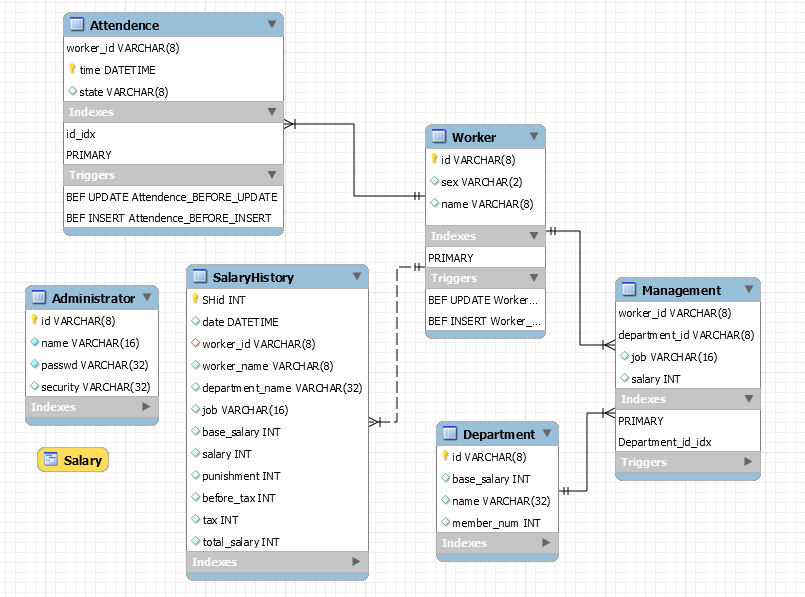
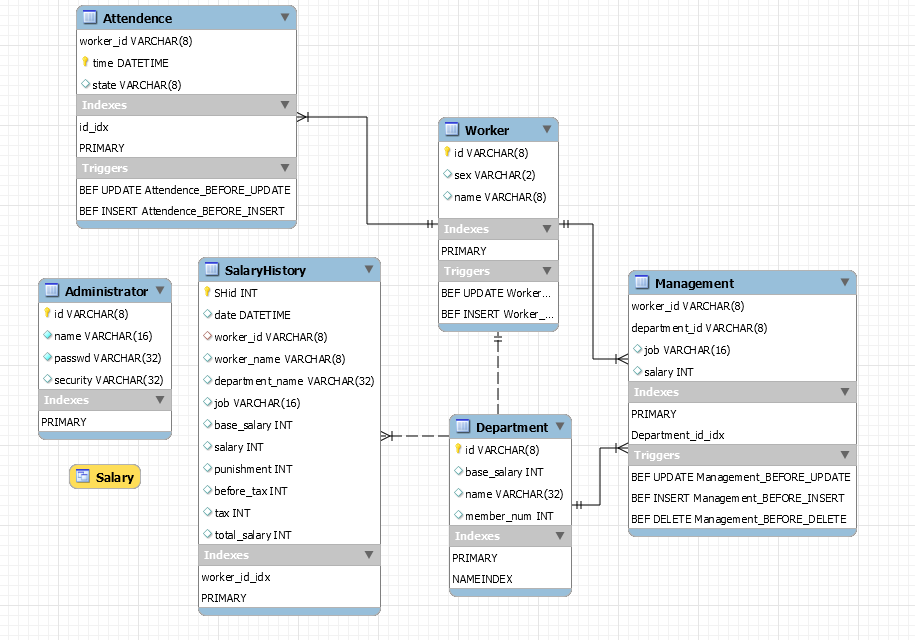
report renew

Changed region(s): [[0.0311, 0.0, 0.9627, 0.995]]

diff --git a/report/report_18340206_18340207.tex b/report/report_18340206_18340207.tex
@@ -278,9 +278,9 @@
 	\item 管理信息（\uline{职务薪资}，职务名称，\uline{部门编号}，\uline{员工编号}）；
 	\item 考勤信息（\uline{时间}，考勤状态，\uline{员工编号}）；
 	\item 历史薪资信息（\uline{薪资编号}，日期，员工编号，员工姓名，员工部门，职务，底薪，职务薪资，缺勤惩罚，税前薪资，税费，税后薪资）；
-	\item 系统管理员信息（\uline{管理员编号}，管理员名称，密码，权限）；
+	\item 系统管理员信息（\uline{管理员编号}，管理员名称，密码，权限）。
 \end{enumerate}
-
+此外，视图salary作为每月工资表，实时计算出员工工资，其列包括（员工编号，员工姓名，部门名称，职务，职务薪资，底薪，缺勤惩罚，总工资）。
 
 \subsection{数据库物理结构设计}
 本系统数据库表的物理设计通过使用mysql workbench的EER图导出的创建表SQL命令来实现，根据ER图建立的EER关系模型如下：
@@ -293,14 +293,68 @@
 生成的创建数据库表的SQL命令主要部分如下：
 \begin{lstlisting}[language=SQL]
 CREATE TABLE IF NOT EXISTS `EnterpriseDB`.`Management` (
-  `salary` INT NULL,
-  `job` VARCHAR(16) NOT NULL,
-  `department_id` VARCHAR(8) NOT NULL,
   `worker_id` VARCHAR(8) NOT NULL,
-  PRIMARY KEY (`job`, `department_id`, `worker_id`))
+  `department_id` VARCHAR(8) NOT NULL,
+  `job` VARCHAR(16) NULL,
+  `salary` INT NULL,
+  PRIMARY KEY (`worker_id`, `department_id`))
 ENGINE = InnoDB;
 \end{lstlisting}
-
+\begin{lstlisting}[language=SQL]
+CREATE TABLE IF NOT EXISTS `EnterpriseDB`.`Administrator` (
+  `id` VARCHAR(8) NOT NULL,
+  `name` VARCHAR(16) NOT NULL,
+  `passwd` VARCHAR(32) NOT NULL,
+  `security` VARCHAR(32) NULL,
+  PRIMARY KEY (`id`))
+ENGINE = InnoDB;
+\end{lstlisting}
+\begin{lstlisting}[language=SQL]
+CREATE TABLE IF NOT EXISTS `EnterpriseDB`.`Department` (
+  `id` VARCHAR(8) NOT NULL,
+  `base_salary` INT NULL,
+  `name` VARCHAR(32) NULL,
+  `member_num` INT NULL,
+  PRIMARY KEY (`id`),
+  INDEX `NAMEINDEX` (`name` ASC) VISIBLE);
+\end{lstlisting}
+\begin{lstlisting}[language=SQL]
+CREATE TABLE IF NOT EXISTS `EnterpriseDB`.`Worker` (
+  `id` VARCHAR(8) NOT NULL,
+  `sex` VARCHAR(2) NULL,
+  `name` VARCHAR(8) NULL,
+  PRIMARY KEY (`id`));
+\end{lstlisting}
+\begin{lstlisting}[language=SQL]
+CREATE TABLE IF NOT EXISTS `EnterpriseDB`.`Attendence` (
+  `worker_id` VARCHAR(8) NOT NULL,
+  `time` DATETIME NOT NULL,
+  `state` VARCHAR(8) NULL,
+  PRIMARY KEY (`worker_id`, `time`));
+\end{lstlisting}
+\begin{lstlisting}[language=SQL]
+CREATE TABLE IF NOT EXISTS `EnterpriseDB`.`SalaryHistory` (
+  `SHid` INT NOT NULL AUTO_INCREMENT,
+  `date` DATETIME NULL,
+  `worker_id` VARCHAR(8) NULL,
+  `worker_name` VARCHAR(8) NULL,
+  `department_name` VARCHAR(32) NULL,
+  `job` VARCHAR(16) NULL,
+  `base_salary` INT NULL,
+  `salary` INT NULL,
+  `punishment` INT NULL,
+  `before_tax` INT NULL,
+  `tax` INT NULL,
+  `total_salary` INT NULL,
+  INDEX `worker_id_idx` (`worker_id` ASC) VISIBLE,
+  PRIMARY KEY (`SHid`),
+  CONSTRAINT `worker_id`
+    FOREIGN KEY (`worker_id`)
+    REFERENCES `EnterpriseDB`.`Worker` (`id`)
+    ON DELETE NO ACTION
+    ON UPDATE NO ACTION)
+ENGINE = InnoDB;
+\end{lstlisting}
 
 \subsection{主要创新点}
 
@@ -387,7 +441,7 @@ from Worker join Management join Department join Checkin
 where Worker.id = Management.worker_id and Management.department_id = Department.id and Worker.id = Checkin.id;
 \end{lstlisting}
 对于薪资存储，可见查询的开销很大，是否应该在物理结构中重新设计一张表，来记录这些信息？我们进行了权衡。首先，计算薪资的所需信息都存储在各个不同的表中，若是重新存储一张表会造成大量的信息冗余。其次，考虑到工资表占用的存储空间较大，并且访问相对不频繁，只在每个月发放薪资是需要查询，所以在权衡中，我们认为视图这一展现方式更合理。
-\par 物化视图能进一步提升性能，但对于需要动态变化的表并不适用。
+\par 物化视图能进一步提升性能，但MySQL不支持物化操作。
 \subsubsection{建立存储过程}
 建立存储过程，完成向历史工资记录批量写入的任务。每个月调用一次该存储过程，将会把动态变化的每月工资记录，记录到新表中。建立存储过程便于调用。\par 
 存储过程的编写思路很直观，遍历视图salary中每一行，根据税前工资计算税费，然后再将相关信息存储历史薪资记录表SalaryHistory。\par 
@@ -617,6 +671,8 @@ table.setModel(tableModel);    //应用表格模型
     \caption{修改选中表项}
 \end{figure}
 对于工资查询部分仅提供查询功能，这是由于每月工资是视图实时计算的，不需要修改，而历史工资记录属于历史也不需要修改，每月工资查询如图：
+
+
 \begin{figure}[H]
     \centering
     \includegraphics[width=1\linewidth]{salary}
@@ -629,7 +685,7 @@ table.setModel(tableModel);    //应用表格模型
     \includegraphics[width=1\linewidth]{saveSalary}
     \caption{每月工资查询}
 \end{figure}
-在历史记录薪资中，除了展示每月薪资部分的信息，还会根据税率分级的计算税费，并输出税后工资。对于10000以下不收税，对于10000-20000的部分收5\%的税，对于20000以上的部门收10\%的税，这个计算过程在存储过程中实现。对于历史薪资查询，需要进入到“查询历史薪资”功能，查询功能与员工信息查询类似，不再展示。\par
+在历史记录薪资中，除了展示每月薪资部分的信息，还会根据税率分级的计算税费，并输出税后工资。对于10000以下不收税，对于10000-20000的部分收5\%的税，对于20000以上的部门收10\%的税，这个计算过程在存储过程中实现。对于历史薪资查询，需要进入到“查询历史薪资”功能，查询功能与员工信息查询实现思路相似，不再展示。\par
 更多界面演示请参考附件视频。
 
 \section{实验总结}
